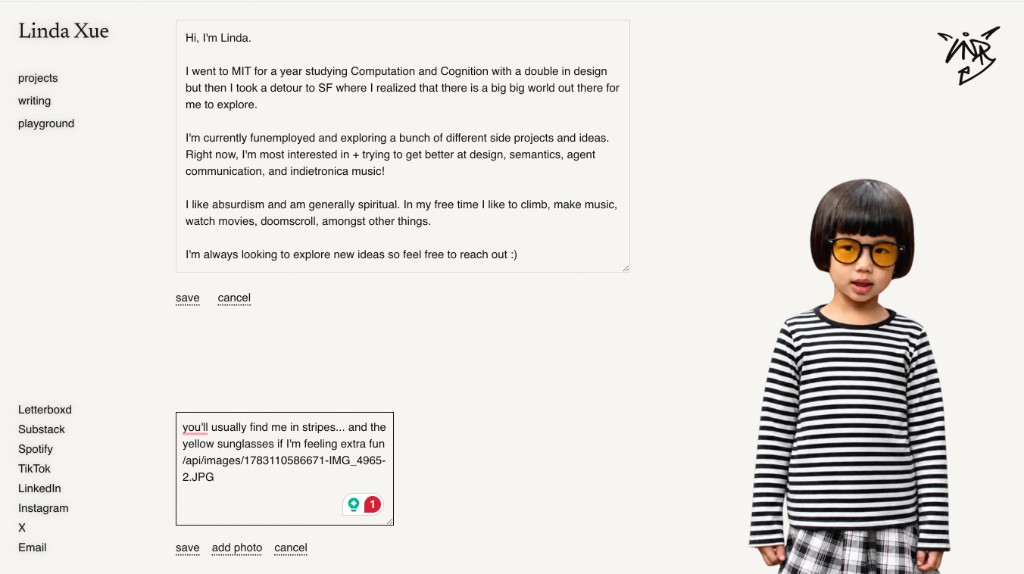
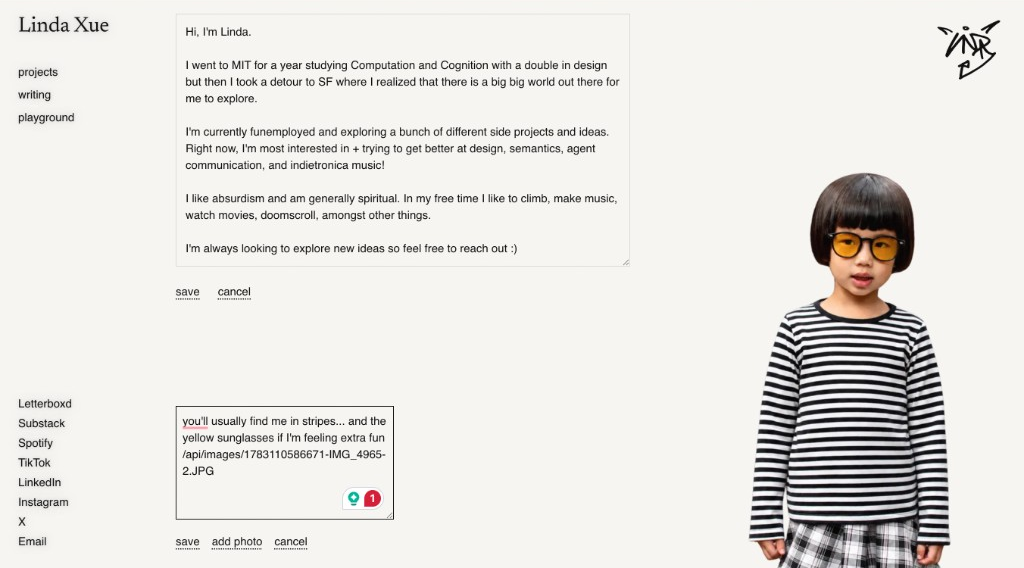
Crop the window-edge hairline off the light editing screenshot, swap the theme pair

diff --git a/src/lib/writing.ts b/src/lib/writing.ts
@@ -60,7 +60,7 @@ export const posts: Post[] = [
       "# Personal Websites",
       "This is why I’m so bullish on being more personal, website-native. In my ideal world, we can overcome our dopamine addiction, and there will be some sort of feed for us to keep up with all of our friends’ online while simultaneously being able to come across new ideas and content serendipitously.",
       "This said, I am attempting to practice what I preach in the latest iteration of my website. I can edit everything directly on the web, and if I want to add new functionality to support a new project, I can just commit some code.",
-      "/images/posts/landlords/editing-light.png\n/images/posts/landlords/editing-dark.png\nEditing the homepage inline — this screenshot follows the site theme.",
+      "/images/posts/landlords/editing-dark.png\n/images/posts/landlords/editing-light.png\nEditing the homepage inline — this screenshot follows the site theme.",
       "Very fun :)",
     ].join("\n\n"),
   },
